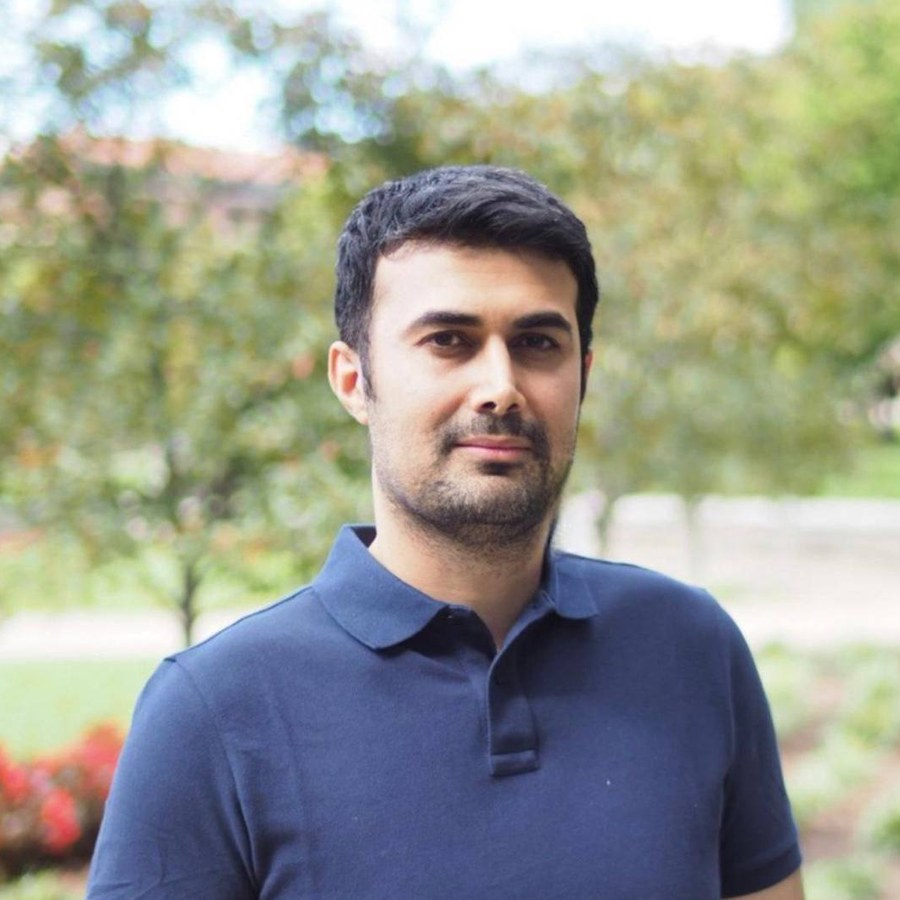
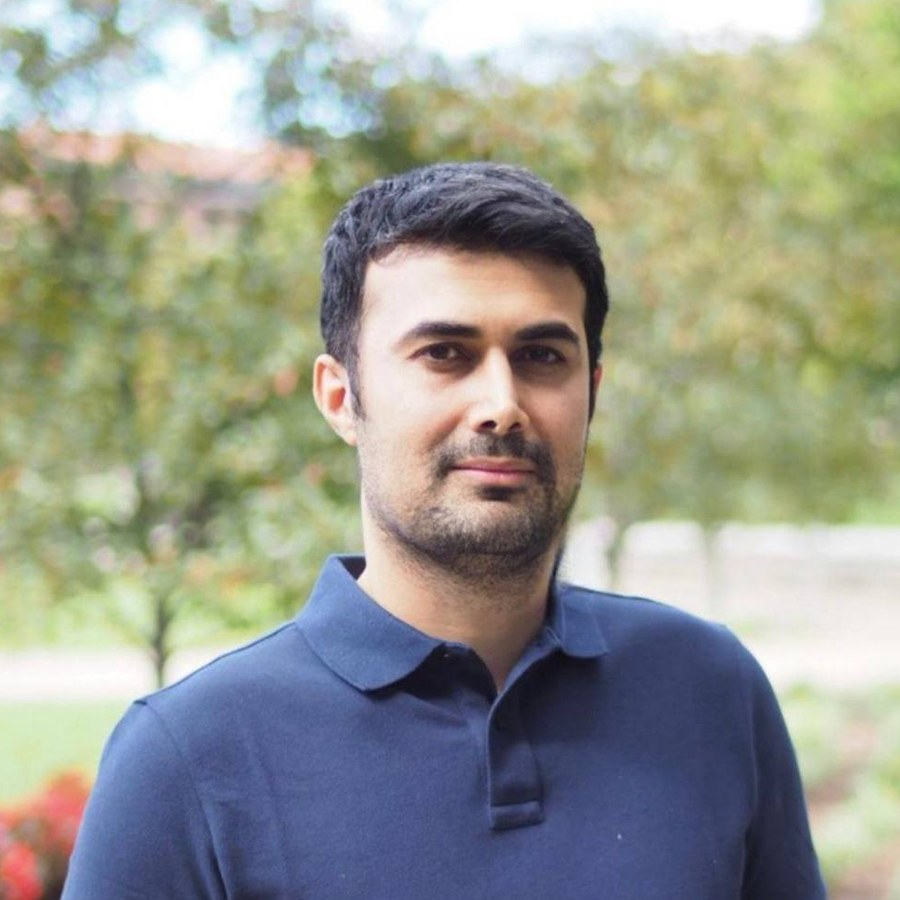
Zoom portrait crop in slightly

diff --git a/index.html b/index.html
@@ -3,7 +3,7 @@
 <head>
 <meta charset="utf-8">
 <meta name="viewport" content="width=device-width, initial-scale=1, viewport-fit=cover">
-<link rel="icon" href="assets/ali-mashhadian-portrait.jpg?v=2">
+<link rel="icon" href="assets/ali-mashhadian-portrait.jpg?v=3">
 <title>Ali Mashhadian</title>
 <meta name="description" content="Ali Mashhadian, mechanical engineer working on numerical simulation of particulate and complex fluid flows in microfluidic devices.">
 <link rel="preconnect" href="https://fonts.googleapis.com">
@@ -267,7 +267,7 @@ figcaption { font-size: 0.95rem; color: var(--muted); line-height: 1.5; }
         </ul>
       </div>
       <figure class="portrait">
-        <img src="assets/ali-mashhadian-portrait.jpg?v=2" alt="Portrait of Ali Mashhadian" width="900" height="900">
+        <img src="assets/ali-mashhadian-portrait.jpg?v=3" alt="Portrait of Ali Mashhadian" width="900" height="900">
       </figure>
     </div>
   </section>
